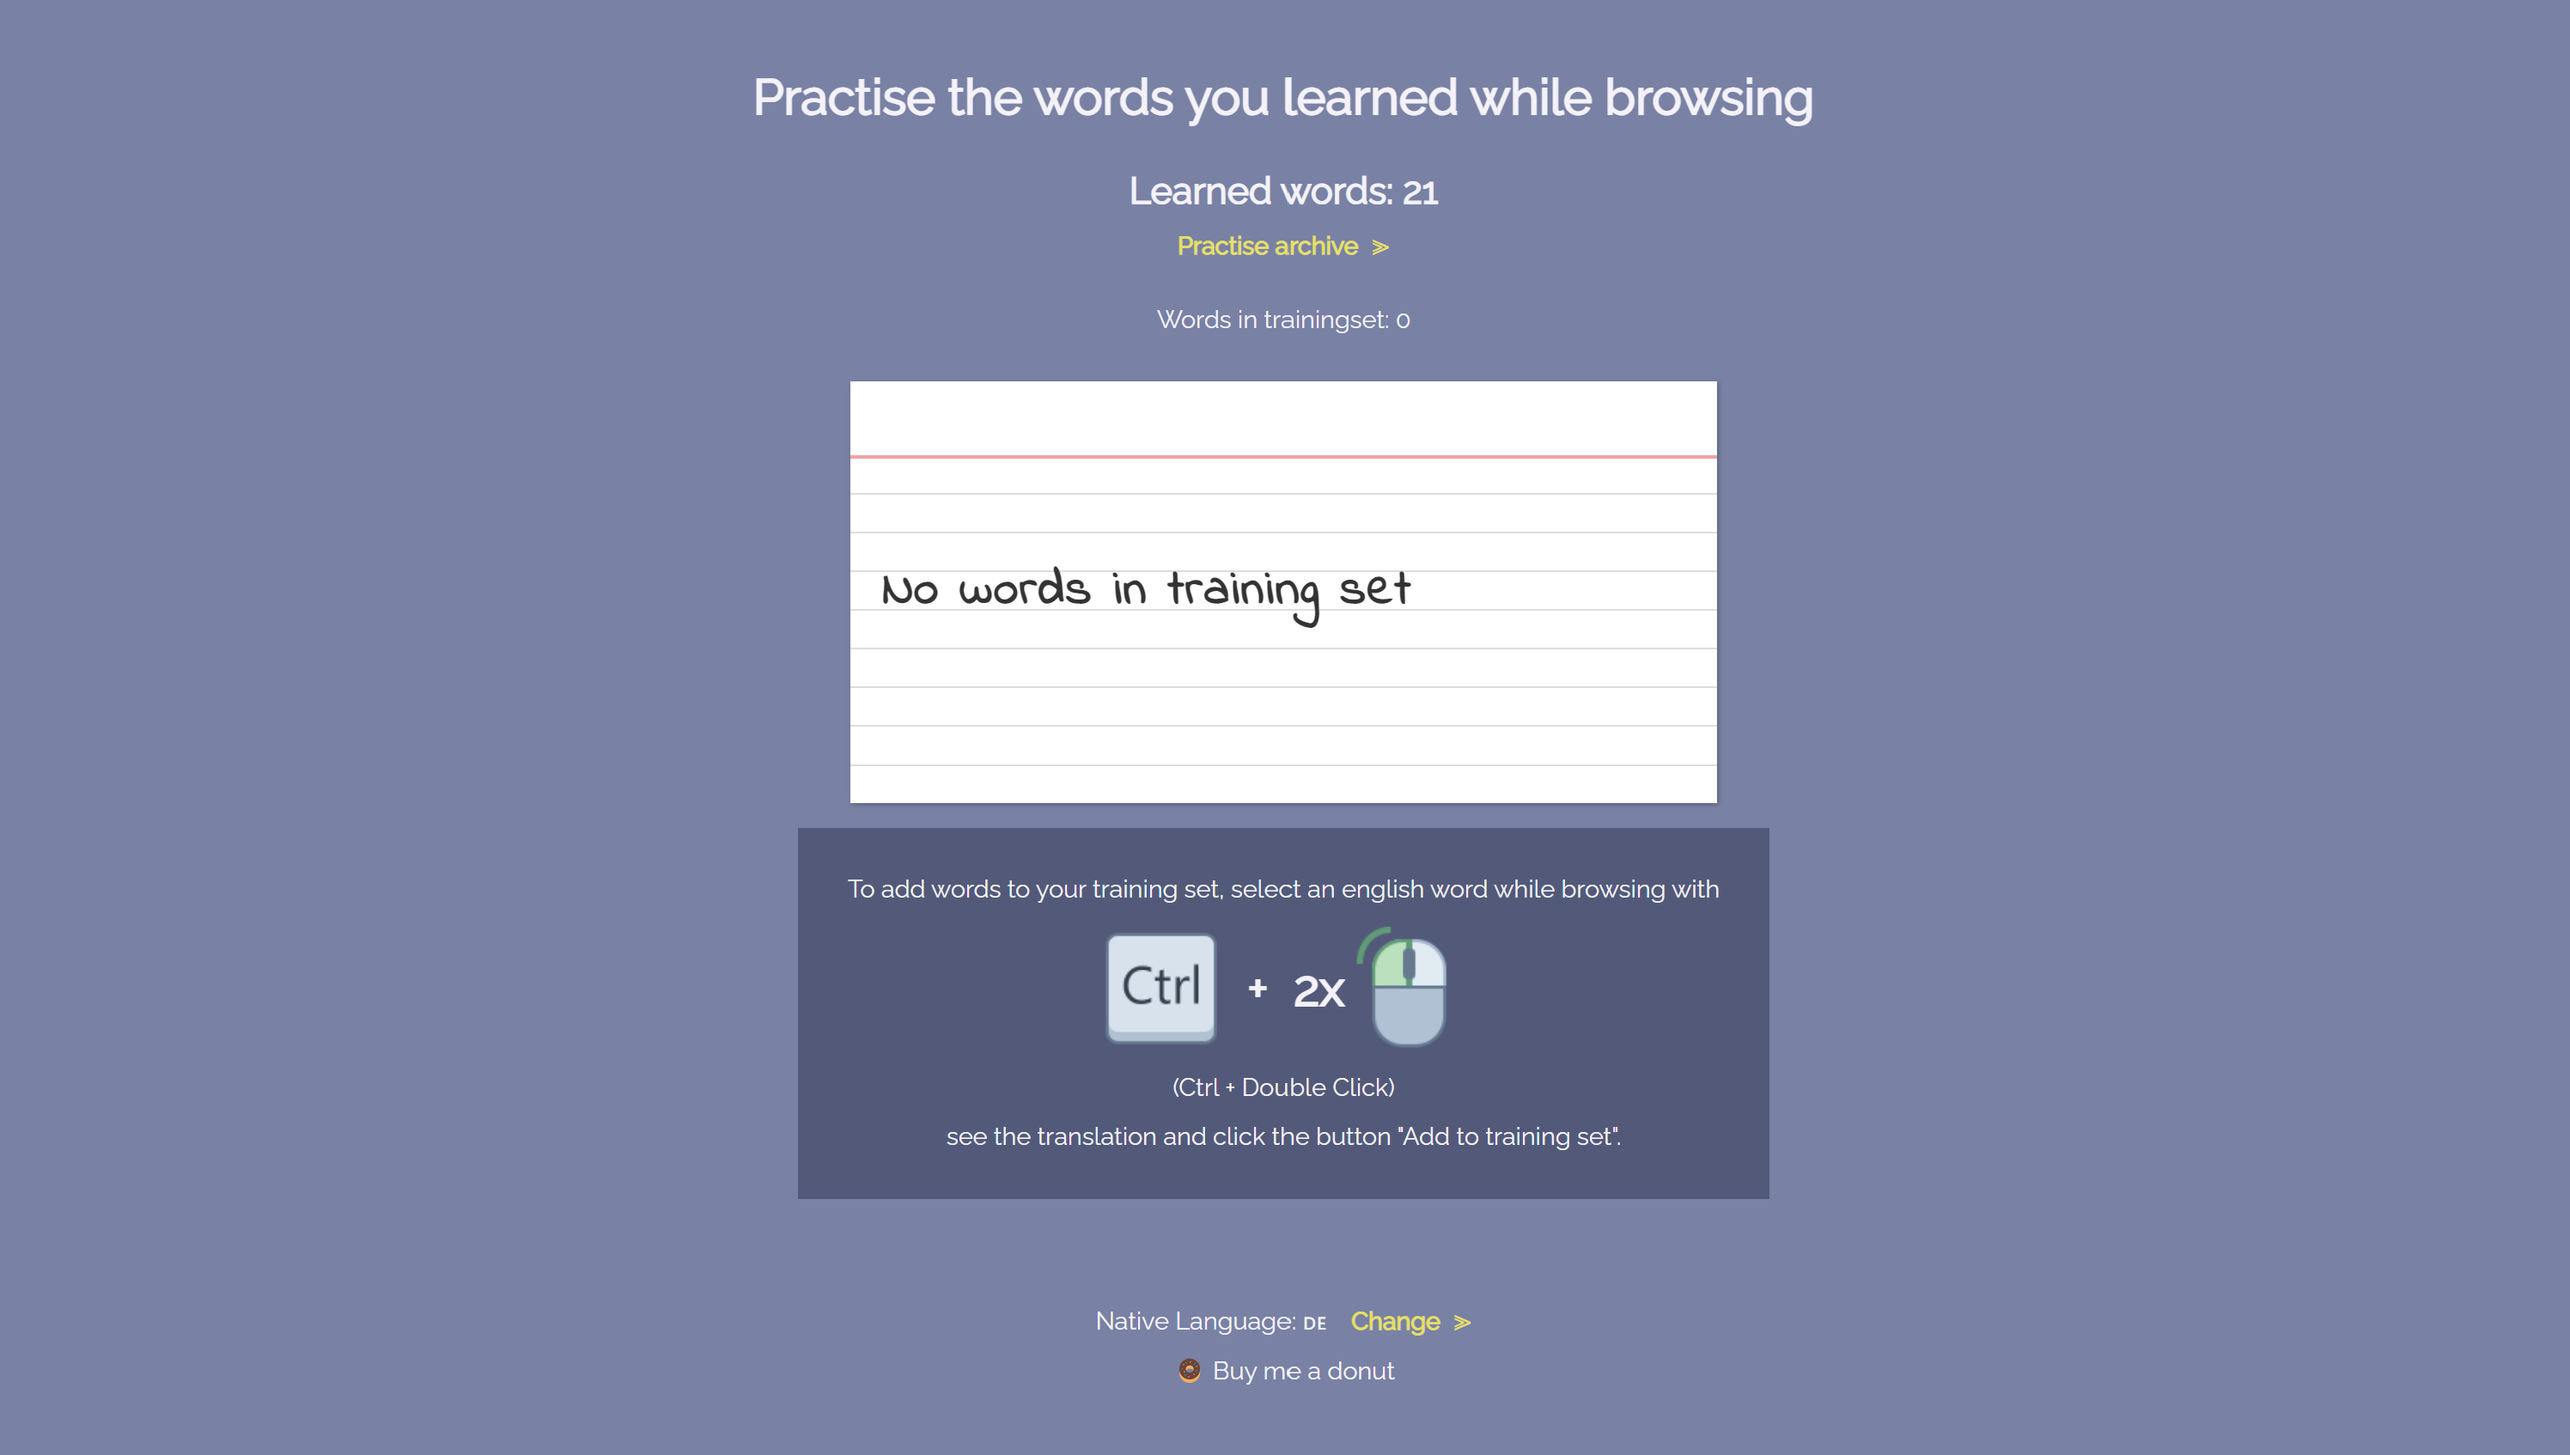
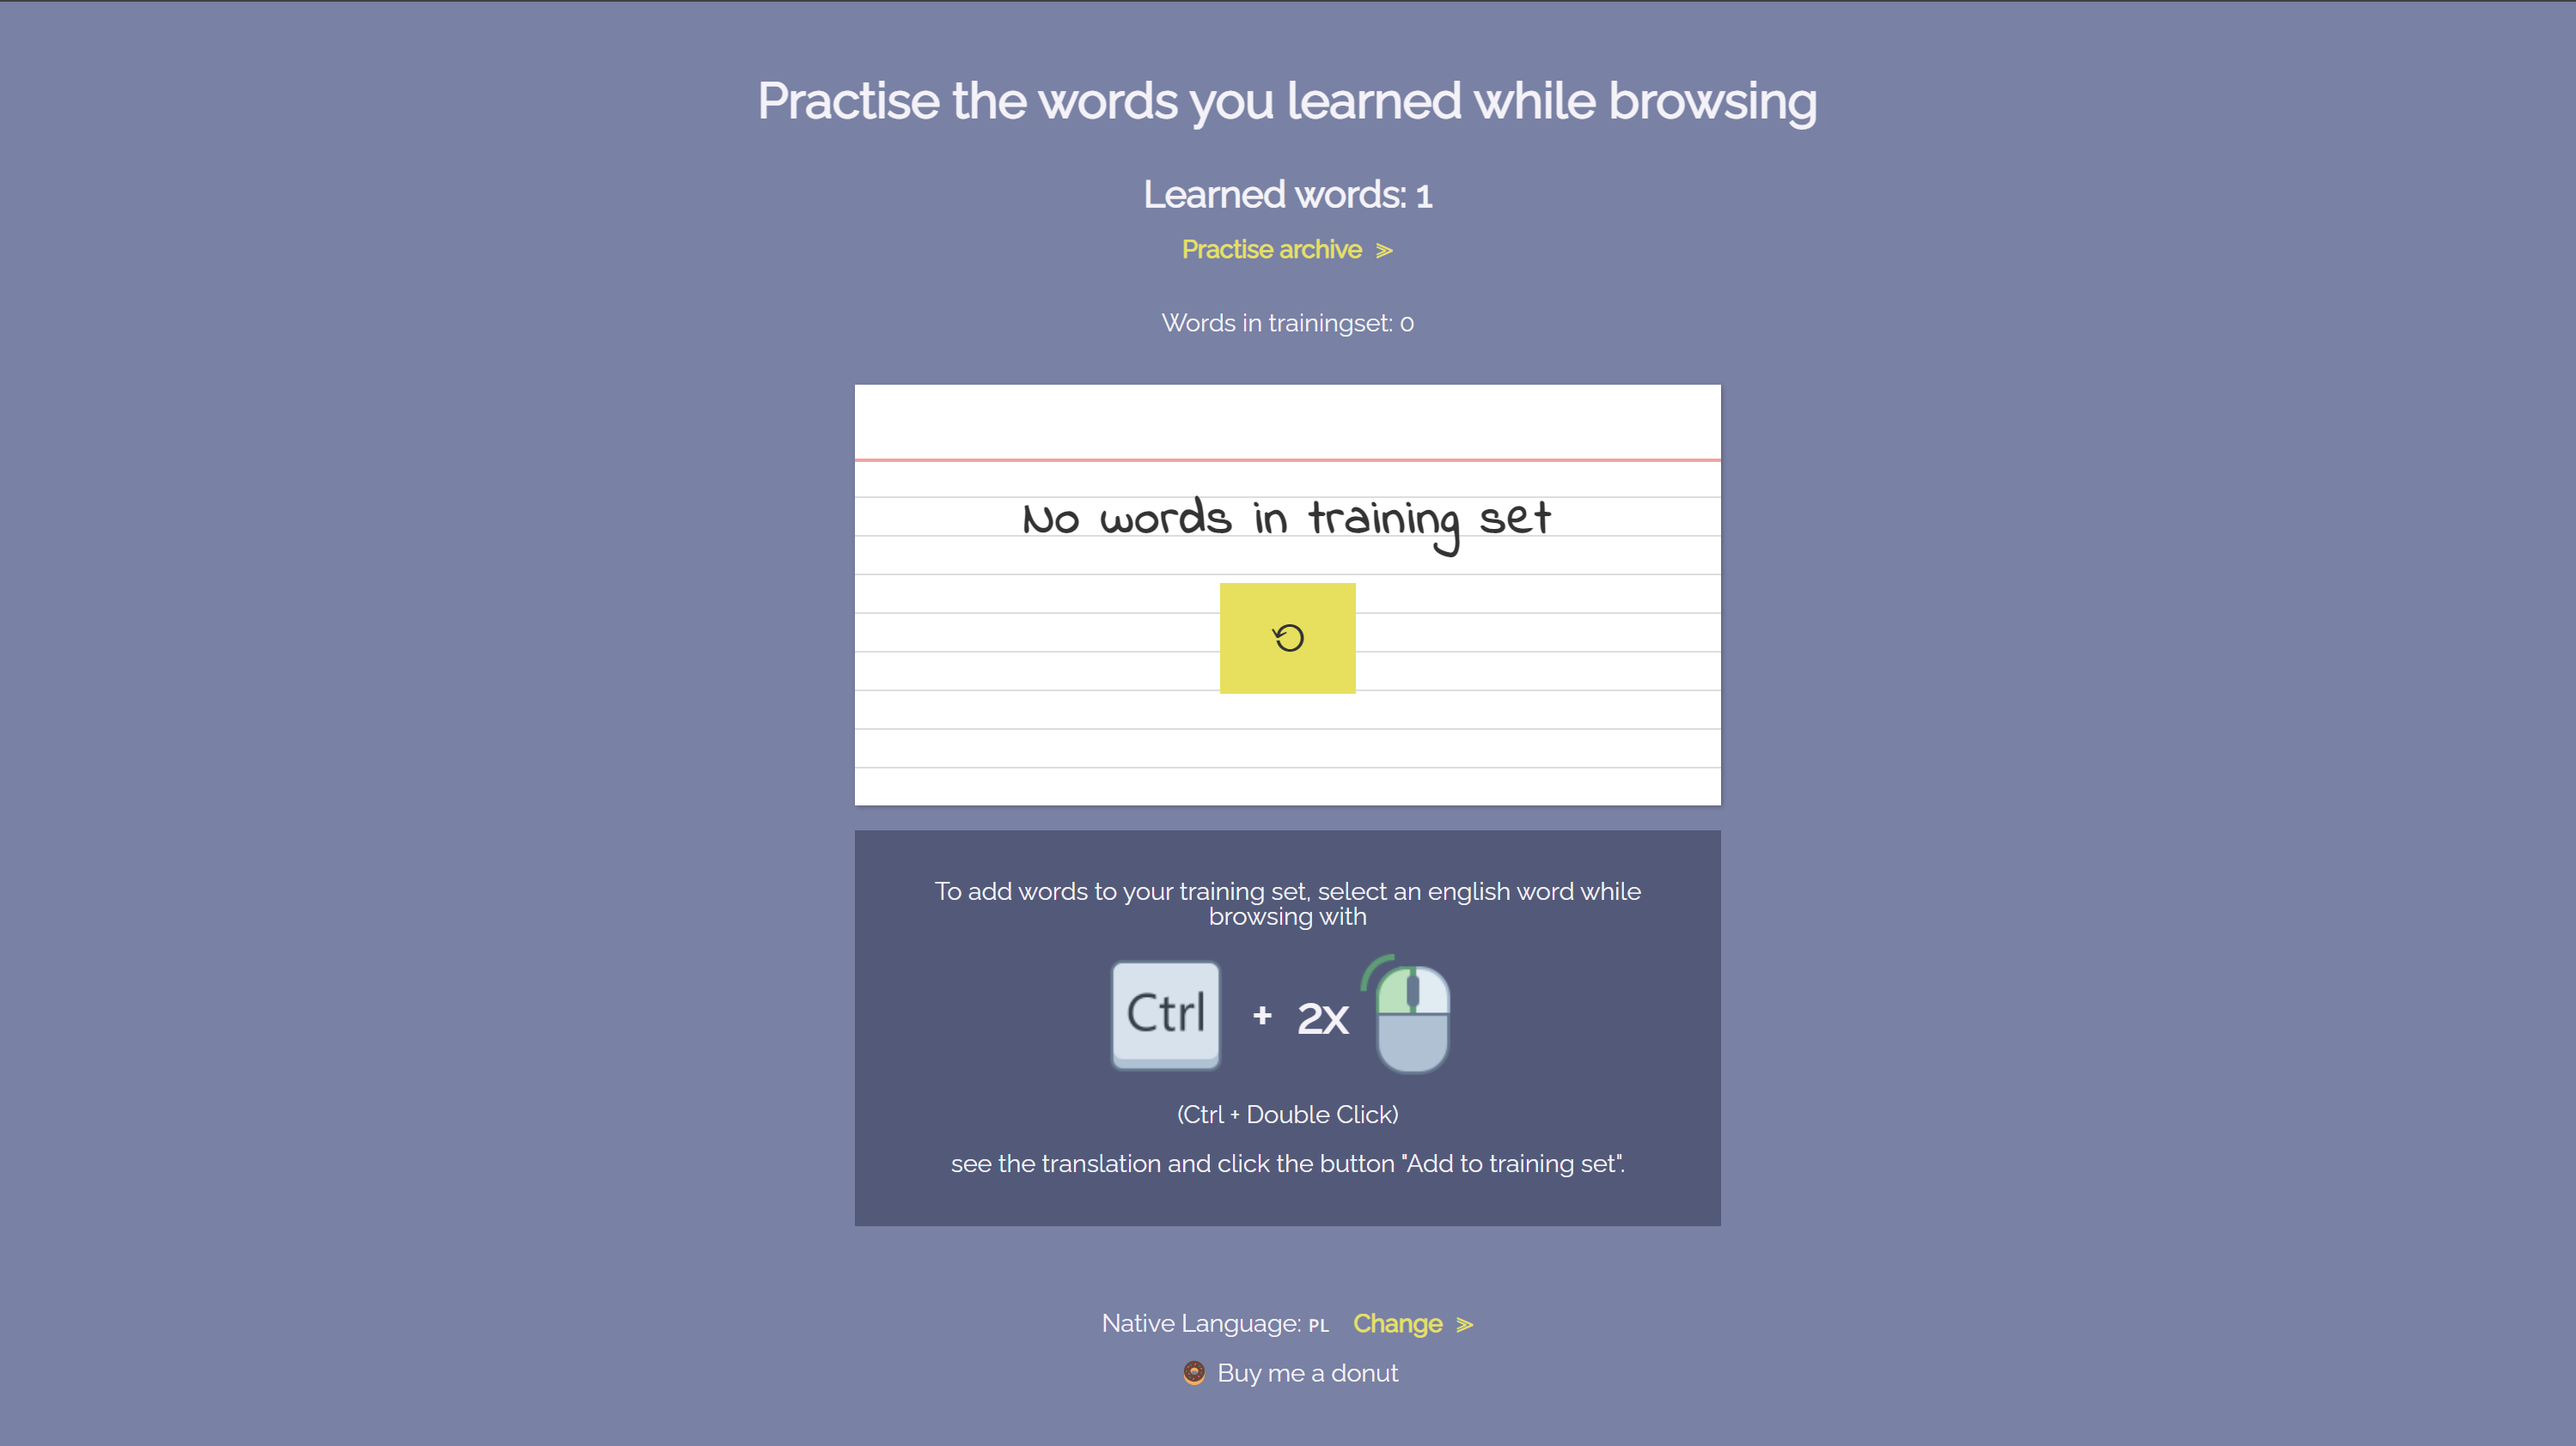
fixes

diff --git a/src/components/CardsArea/TranslationCard/TranslationCard.tsx b/src/components/CardsArea/TranslationCard/TranslationCard.tsx
@@ -7,7 +7,7 @@ import {Button} from "../../Button/Button";
 import styles from './TranslationCard.module.scss';
 
 export const TranslationCard = (): JSX.Element => {
-    const { state, setState, word } = useContext(PractiseContext);
+    const { state, setState, word, isArchive } = useContext(PractiseContext);
     const [ input, setInput ] = useState('');
 
     useEffect(() => {
@@ -28,13 +28,13 @@ export const TranslationCard = (): JSX.Element => {
      return <>
          <div className={isWrong ? styles.wrong : styles.correct}>{input}</div>
          <div className={styles.emoji}>{isWrong ? '😔' : '🥳'}</div>
-         <div className={styles.comment}>{isWrong ? 'The word stays in the training set and will be presented later again.' : 'Yey! The word is added to the archive.'}</div>
+         <div className={styles.comment}>{ !isArchive && <>{isWrong ? 'The word stays in the training set and will be presented later again.' : 'Yey! The word is added to the archive.'}</>}</div>
      </>
     };
 
     return (
         <IndexCard>
-            <IndexCardSide variant={Variants.FRONT}>
+            <IndexCardSide variant={Variants.FRONT} className={styles.translationCard}>
                 { state === PractiseStates.INITIAL || state === PractiseStates.TO_VERIFY ?
                     renderInput() : renderResult()
                 }

diff --git a/src/App.module.scss b/src/App.module.scss
@@ -8,6 +8,7 @@
   gap: 2rem;
   padding: 3rem;
   min-height: 100%;
+  text-align: center;
   @media screen and (max-width: 700px) {
     padding: 1rem;
   }

diff --git a/src/components/CardsArea/TranslationCard/TranslationCard.module.scss b/src/components/CardsArea/TranslationCard/TranslationCard.module.scss
@@ -1,5 +1,9 @@
 @use '../../../theme';
 
+.translationCard {
+  text-align: left;
+}
+
 .inputContainer {
   position: relative;
   display: flex;

diff --git a/src/components/CardsArea/WordCard/WordCard.module.scss b/src/components/CardsArea/WordCard/WordCard.module.scss
@@ -1,6 +1,7 @@
 @use '../../../theme';
 
 .wordCard {
+  text-align: left;
   padding: 1.3rem 3.5rem 1.3rem 1.3rem !important;
 
   .language {
